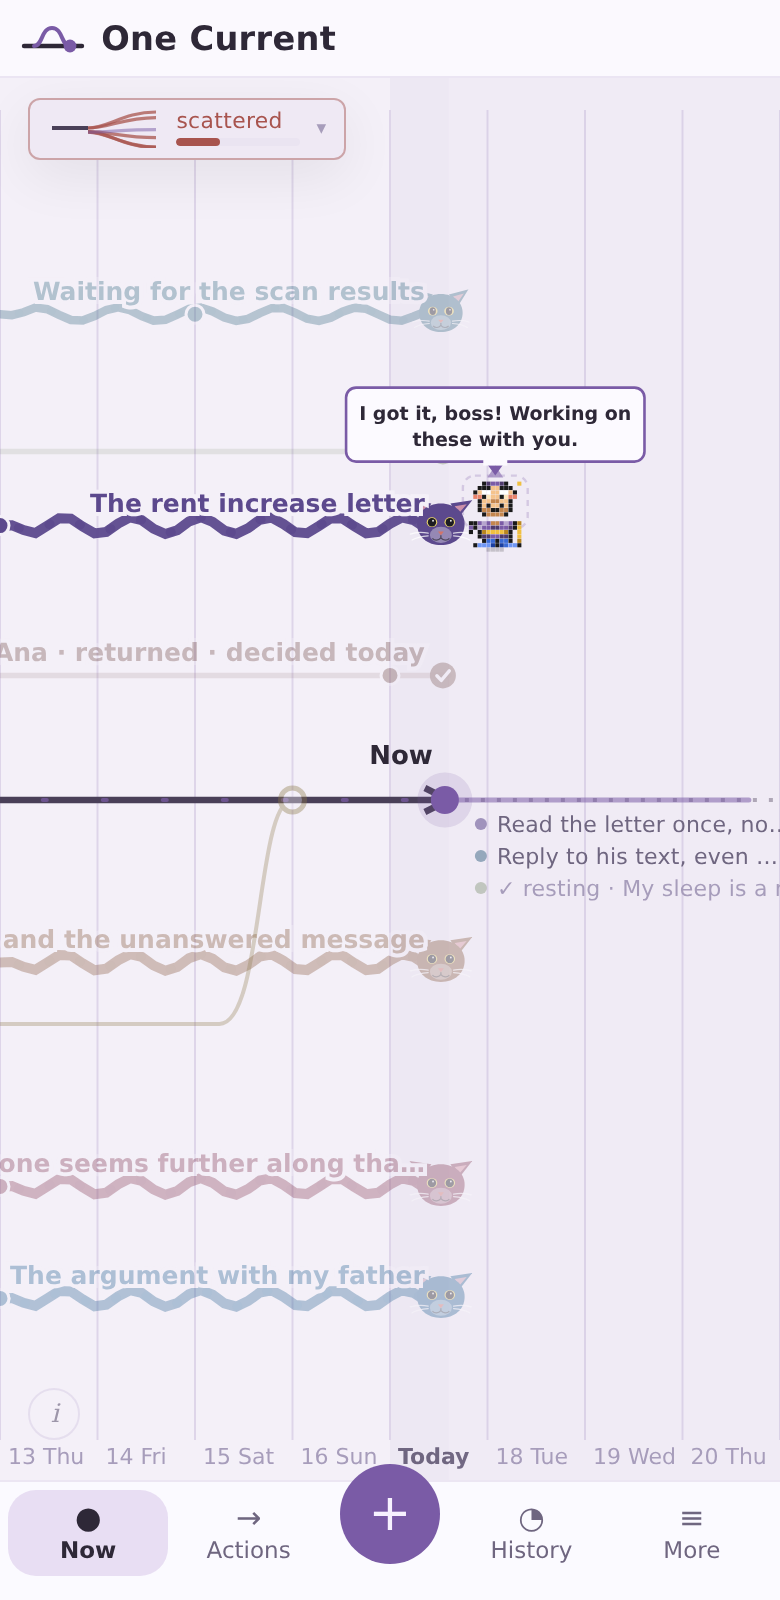
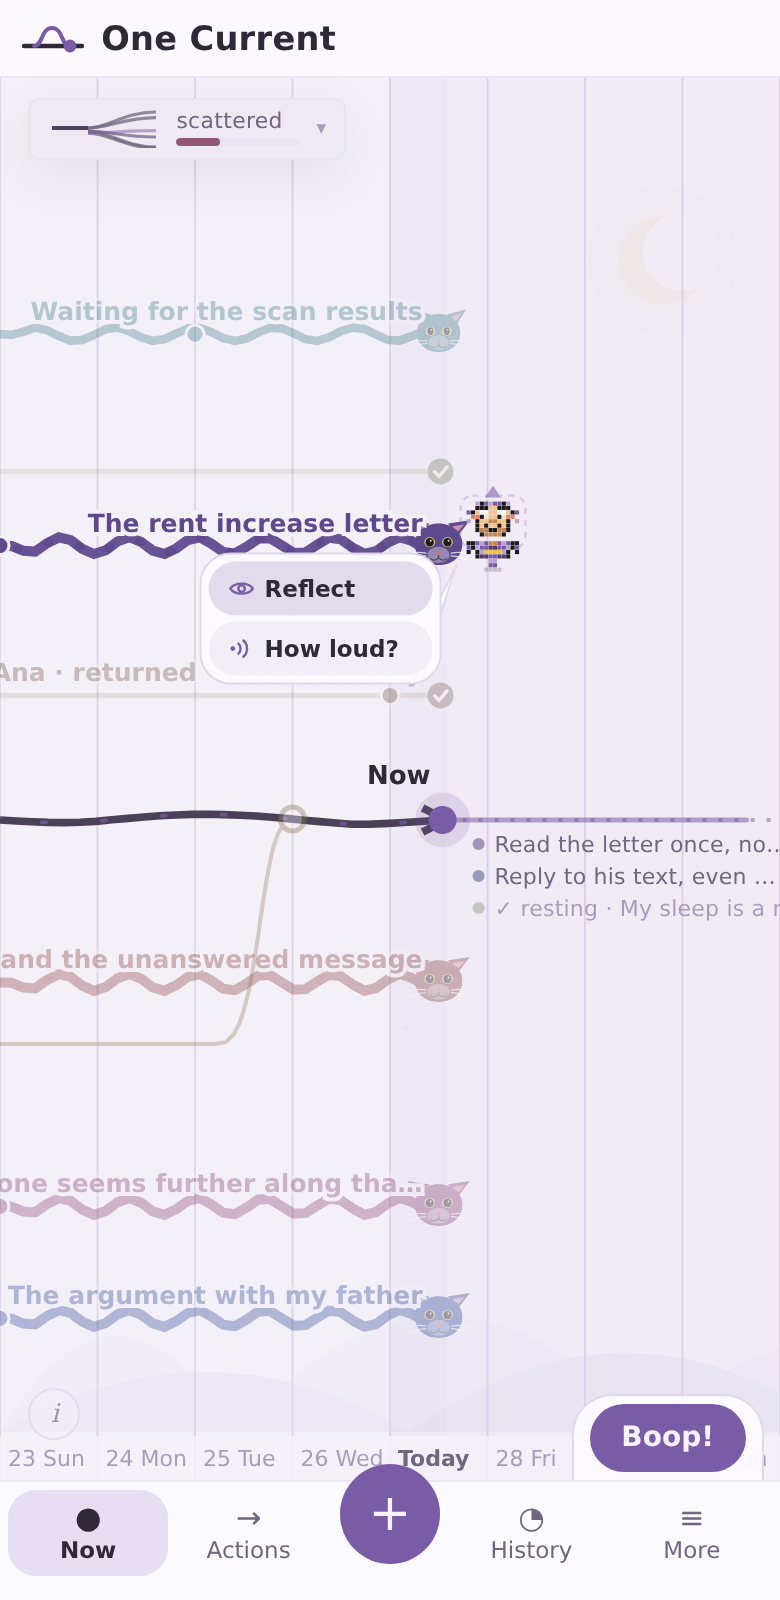
Landing screenshots catch up with the app too
All 18 landing images reshot from the current build: the redesigned
thread menu (icon rows, the dial stepping aside for the choices), the
pinned date strip, full-height day dividers, and Pip standing at a loud
thread with his offer pills up. The two Pip shots join the capture
script rather than staying hand-made — it now waits for his speech
bubble (a group carrying a tail polygon) instead of a fixed beat, so he
is never photographed mid-silence.

Three alt texts were describing a UI that no longer exists — the menu's
loudness dial and Pip's old phrase — and now describe what is actually
in frame, in both languages.

diff --git a/public/about/index.es.html b/public/about/index.es.html
@@ -1198,7 +1198,7 @@
         </p>
       </div>
       <div class="step-media">
-        <img src="img/quick-menu.png" alt="El menú completo de un hilo: el control de volumen arriba y luego cuatro respuestas a qué necesita el hilo — actuar, integrar, anotar o aceptar que no se puede hacer nada." />
+        <img src="img/quick-menu.png" alt="El menú completo de un hilo: cuatro respuestas a lo que necesita — Act, Integrate, Note o Let it rest — cada una en su propia fila con un pequeño ícono dibujado, y debajo dos opciones más discretas: Understand this thread y Too heavy to carry alone." />
         <p class="caption">Cuatro respuestas honestas. Sin formularios, sin puntajes.</p>
       </div>
     </div>
@@ -1287,7 +1287,7 @@
         </p>
       </div>
       <div class="step-media">
-        <img src="img/mascot-timeline.png" alt="La línea de tiempo de One Current con Pip, el compañero animado de pixel art, sentado sobre una de las líneas de hilo. Los demás hilos se desvanecen suavemente para que el activo resalte." />
+        <img src="img/mascot-timeline.png" alt="La línea de tiempo de One Current con Pip, el compañero animado de pixel art, parado al final de un hilo que suena fuerte. Encima de él, una burbuja dice “This one's LOUD, boss. Give it an answer?”, y a su lado aparecen dos ofertas: Reflect y How loud?" />
         <p class="caption">Pip ilumina el hilo que está por visitar — y luego corre.</p>
       </div>
     </div>
@@ -1305,7 +1305,7 @@
         </p>
       </div>
       <div class="step-media">
-        <img src="img/mascot-mobile.png" alt="Pip en el celular, sentado a la derecha del extremo de un hilo con una burbuja de diálogo encima que dice 'This one's LOUD — want to sort it?'" />
+        <img src="img/mascot-mobile.png" alt="Pip en el celular, parado en el extremo de un hilo con una burbuja de diálogo encima que dice “This one's LOUD, boss. Give it an answer?” y debajo sus dos ofertas: Reflect y How loud?" />
         <p class="caption">Lecturas cortas, nunca exigencias. Tócalo para actuar sobre el hilo.</p>
       </div>
     </div>

diff --git a/public/about/index.html b/public/about/index.html
@@ -1197,7 +1197,7 @@
         </p>
       </div>
       <div class="step-media">
-        <img src="img/quick-menu.png" alt="The full menu for a thread: the loudness control on top, then four answers to what the thread needs — act, integrate, note, or accept that nothing can be done." />
+        <img src="img/quick-menu.png" alt="The full menu for a thread: four answers to what it needs — Act, Integrate, Note, or Let it rest — each on its own row with a small drawn icon, and two quieter options underneath: Understand this thread, and Too heavy to carry alone." />
         <p class="caption">Four honest answers. No forms, no scoring.</p>
       </div>
     </div>
@@ -1286,7 +1286,7 @@
         </p>
       </div>
       <div class="step-media">
-        <img src="img/mascot-timeline.png" alt="The One Current timeline with Pip, the animated pixel-art companion character, sitting on one of the thread lines. Other threads are gently faded so the active one stands out." />
+        <img src="img/mascot-timeline.png" alt="The One Current timeline with Pip, the animated pixel-art companion, standing at the end of a loud thread. A speech bubble above him reads “This one's LOUD, boss. Give it an answer?”, and two offers sit beside him: Reflect, and How loud?" />
         <p class="caption">Pip highlights the thread he's about to visit — then runs.</p>
       </div>
     </div>
@@ -1304,7 +1304,7 @@
         </p>
       </div>
       <div class="step-media">
-        <img src="img/mascot-mobile.png" alt="Pip on mobile, sitting to the right of a thread endpoint with a speech bubble above him saying 'This one's LOUD — want to sort it?'" />
+        <img src="img/mascot-mobile.png" alt="Pip on mobile, standing at a thread endpoint with a speech bubble above him saying “This one's LOUD, boss. Give it an answer?” and his two offers below it: Reflect, and How loud?" />
         <p class="caption">Short reads, never demands. Tap him to act on the thread.</p>
       </div>
     </div>
